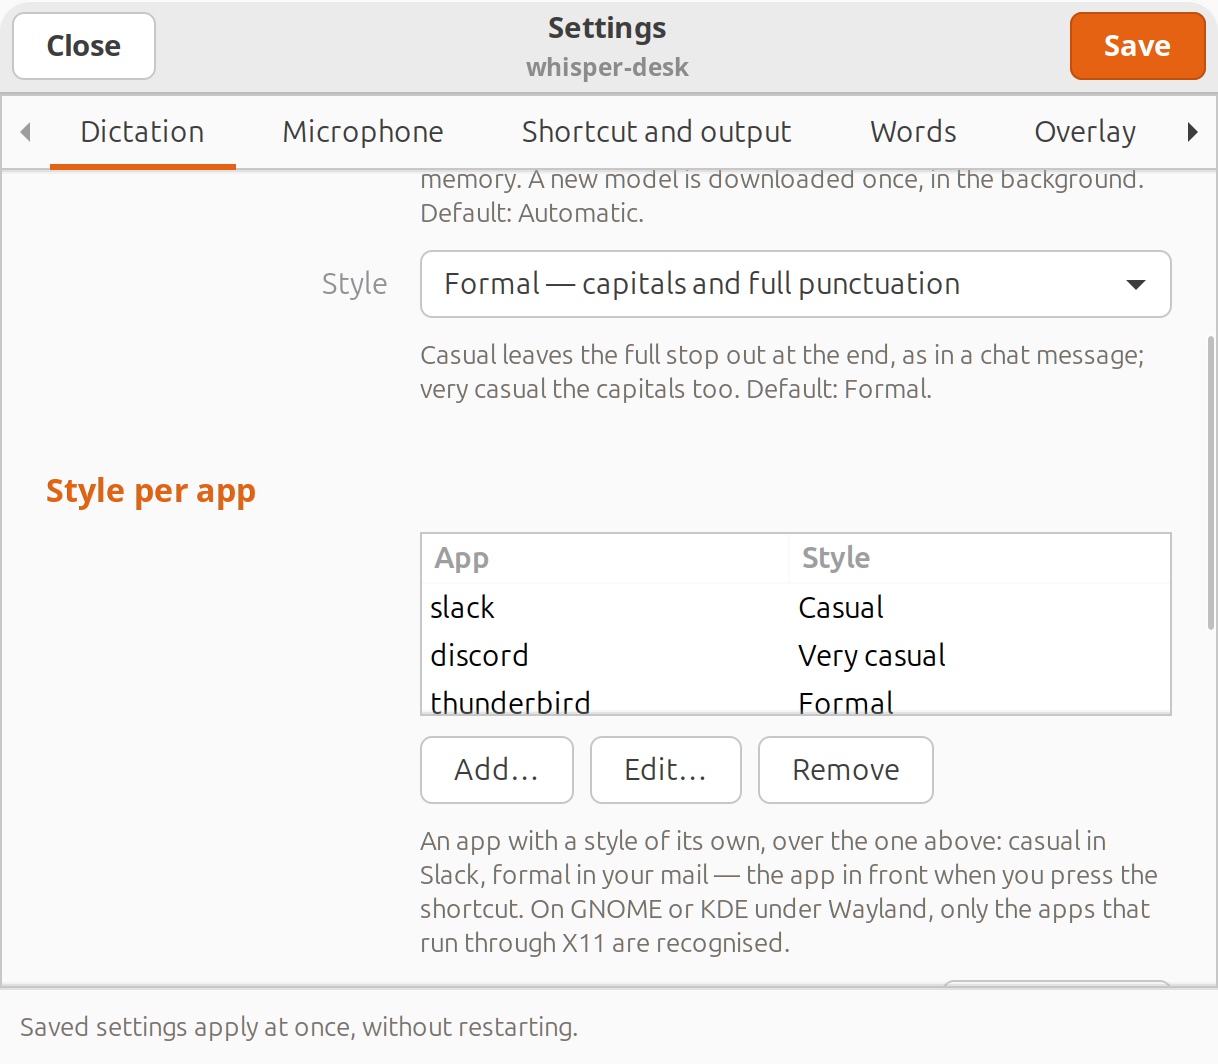
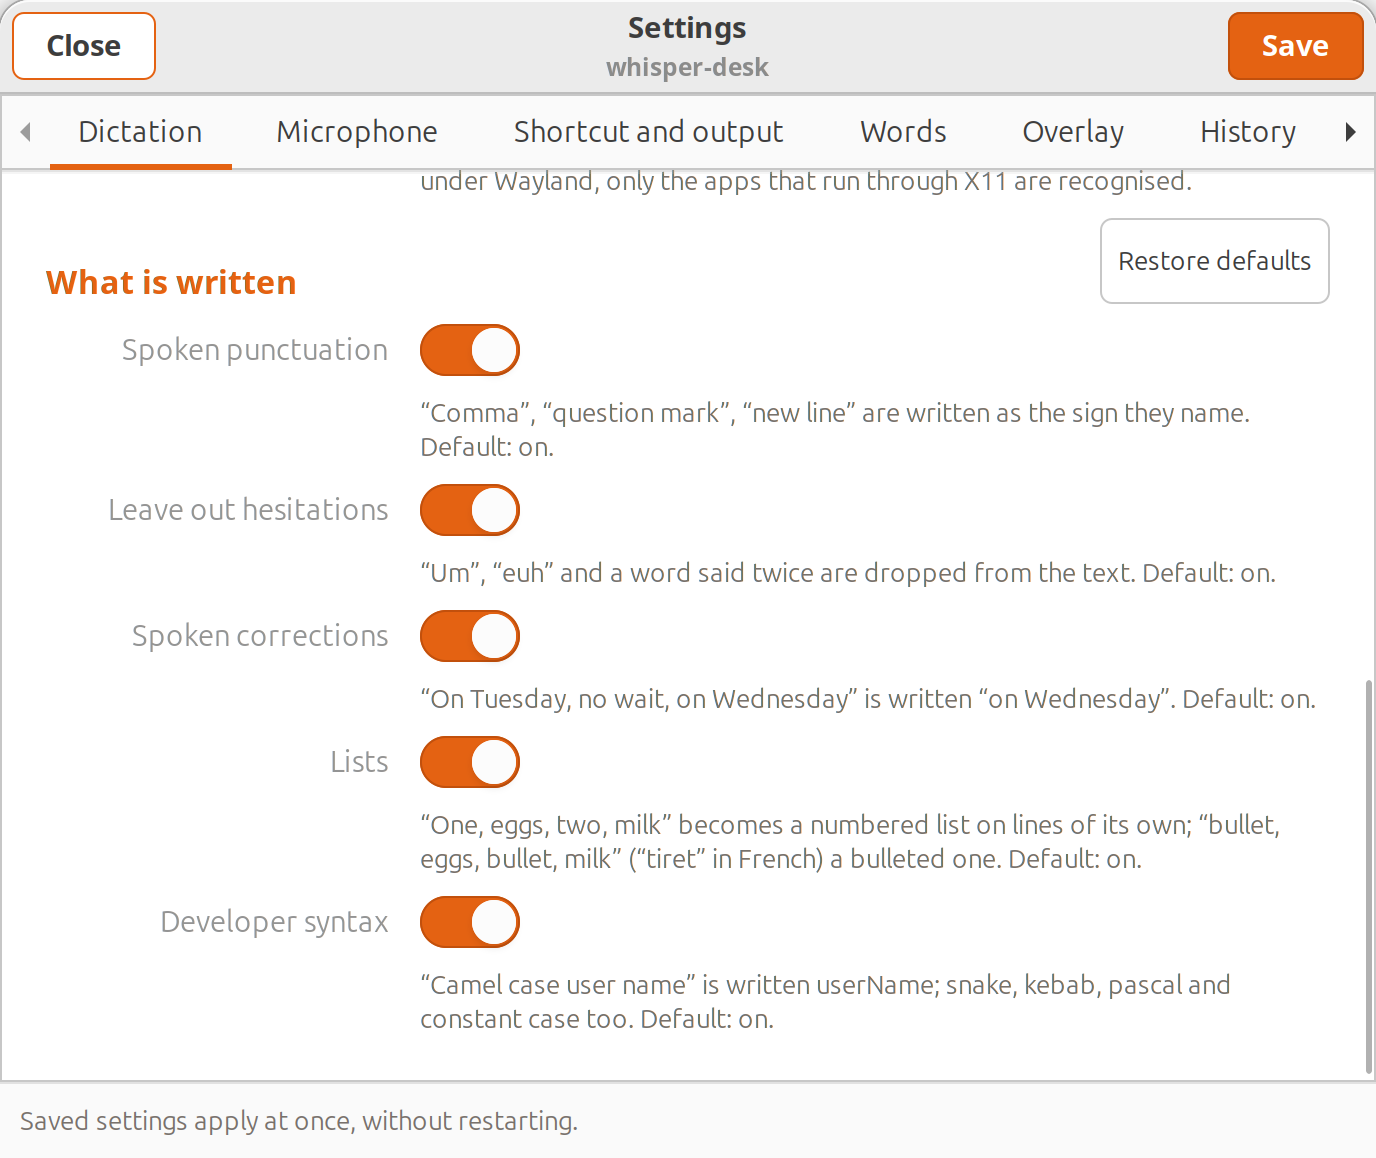
feat: show the lists setting in the settings window screenshot

diff --git a/docs/index.html b/docs/index.html
@@ -1007,7 +1007,7 @@
       <div class="shot wide">
         <picture>
           <source srcset="settings-window.webp" type="image/webp">
-          <img src="settings-window.png" alt="The whisper-desk settings window" width="672" height="587" loading="lazy">
+          <img src="settings-window.png" alt="The whisper-desk settings window" width="672" height="566" loading="lazy">
         </picture>
         <span>The settings window — no TOML to edit</span>
       </div>

diff --git a/CHANGELOG.md b/CHANGELOG.md
@@ -12,7 +12,8 @@
   writes *tiret*) count right after a pause, and so does the dash Whisper writes itself at a
   sentence's start. A bullet said alone, or after *un*, *le*, *a*, *the* (*ajoute un tiret*,
   *a dash of salt*), stays as said. Under `model.lists`, now **Lists** in the settings
-  window; *very casual* lowers the capital of a bulleted item as of a numbered one.
+  window; *very casual* lowers the capital of a bulleted item as of a numbered one. The settings window's
+  screenshot (`docs/settings-window.png`) shows the **Lists** setting.
 - `bench/lists/`: 18 bulleted lists said in French and English and 8 control sentences
   added to the corpus, with their recordings; lists laid out exactly, before → after:
   - written sentences: 0/18 → 18/18, controls 8/8 kept;
